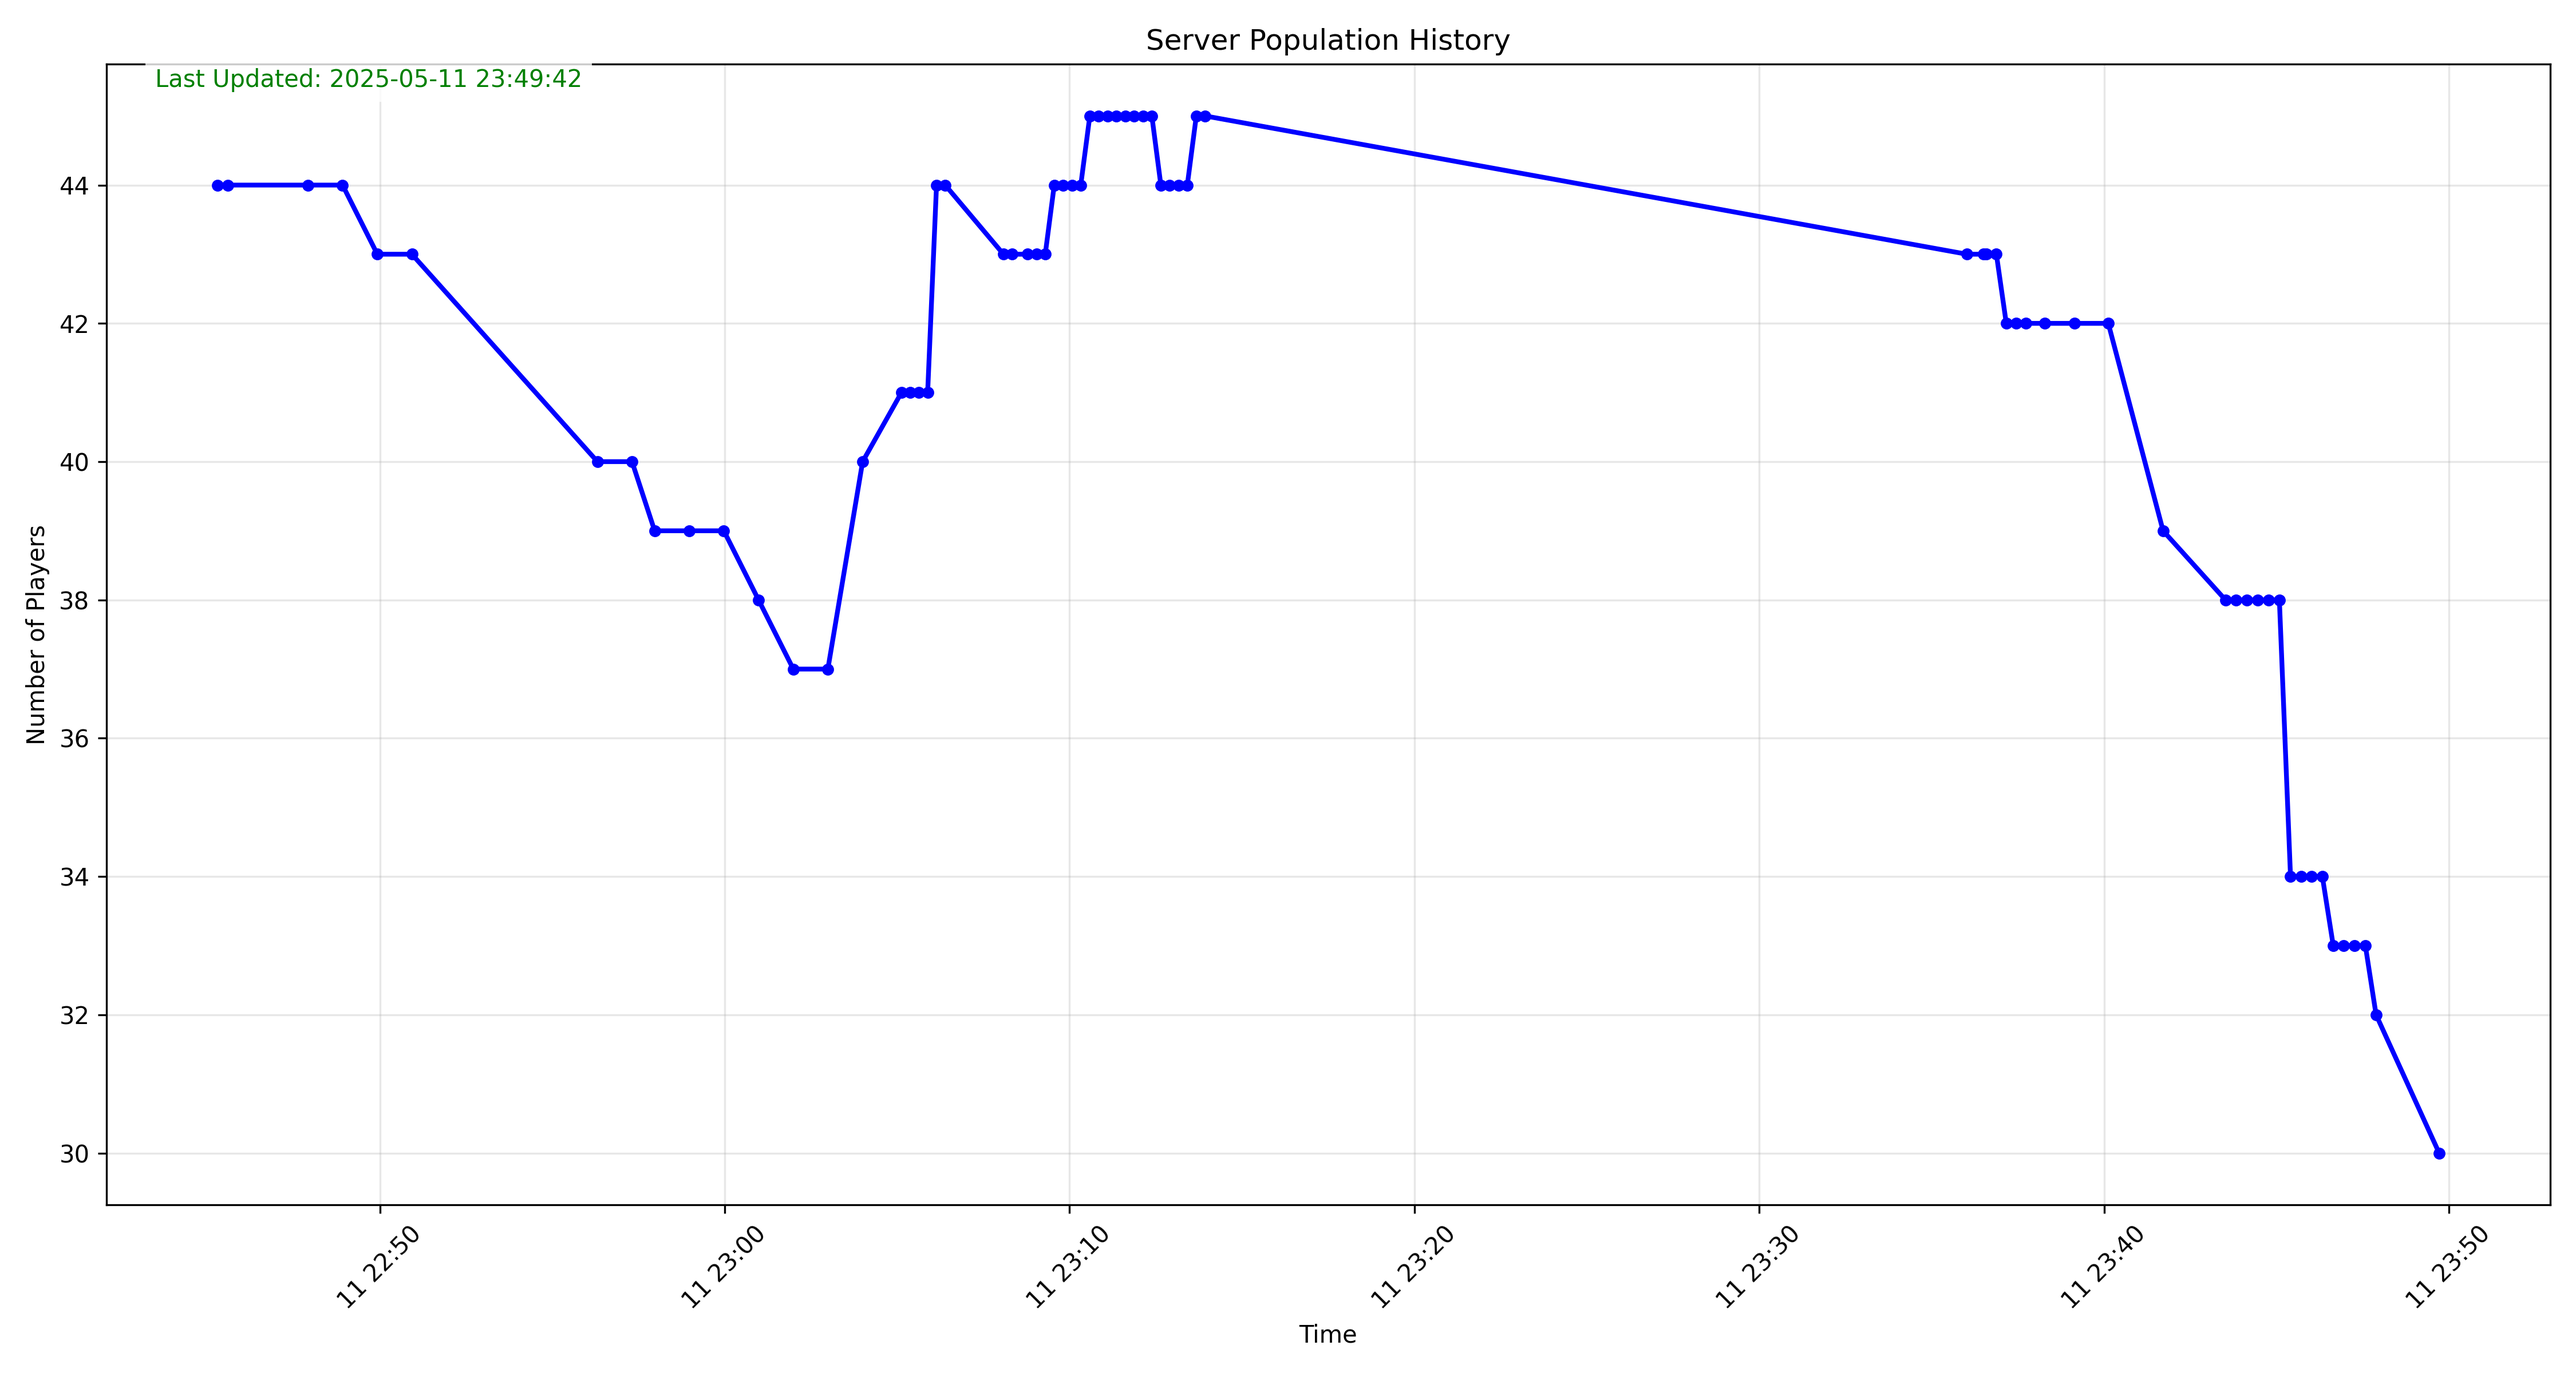
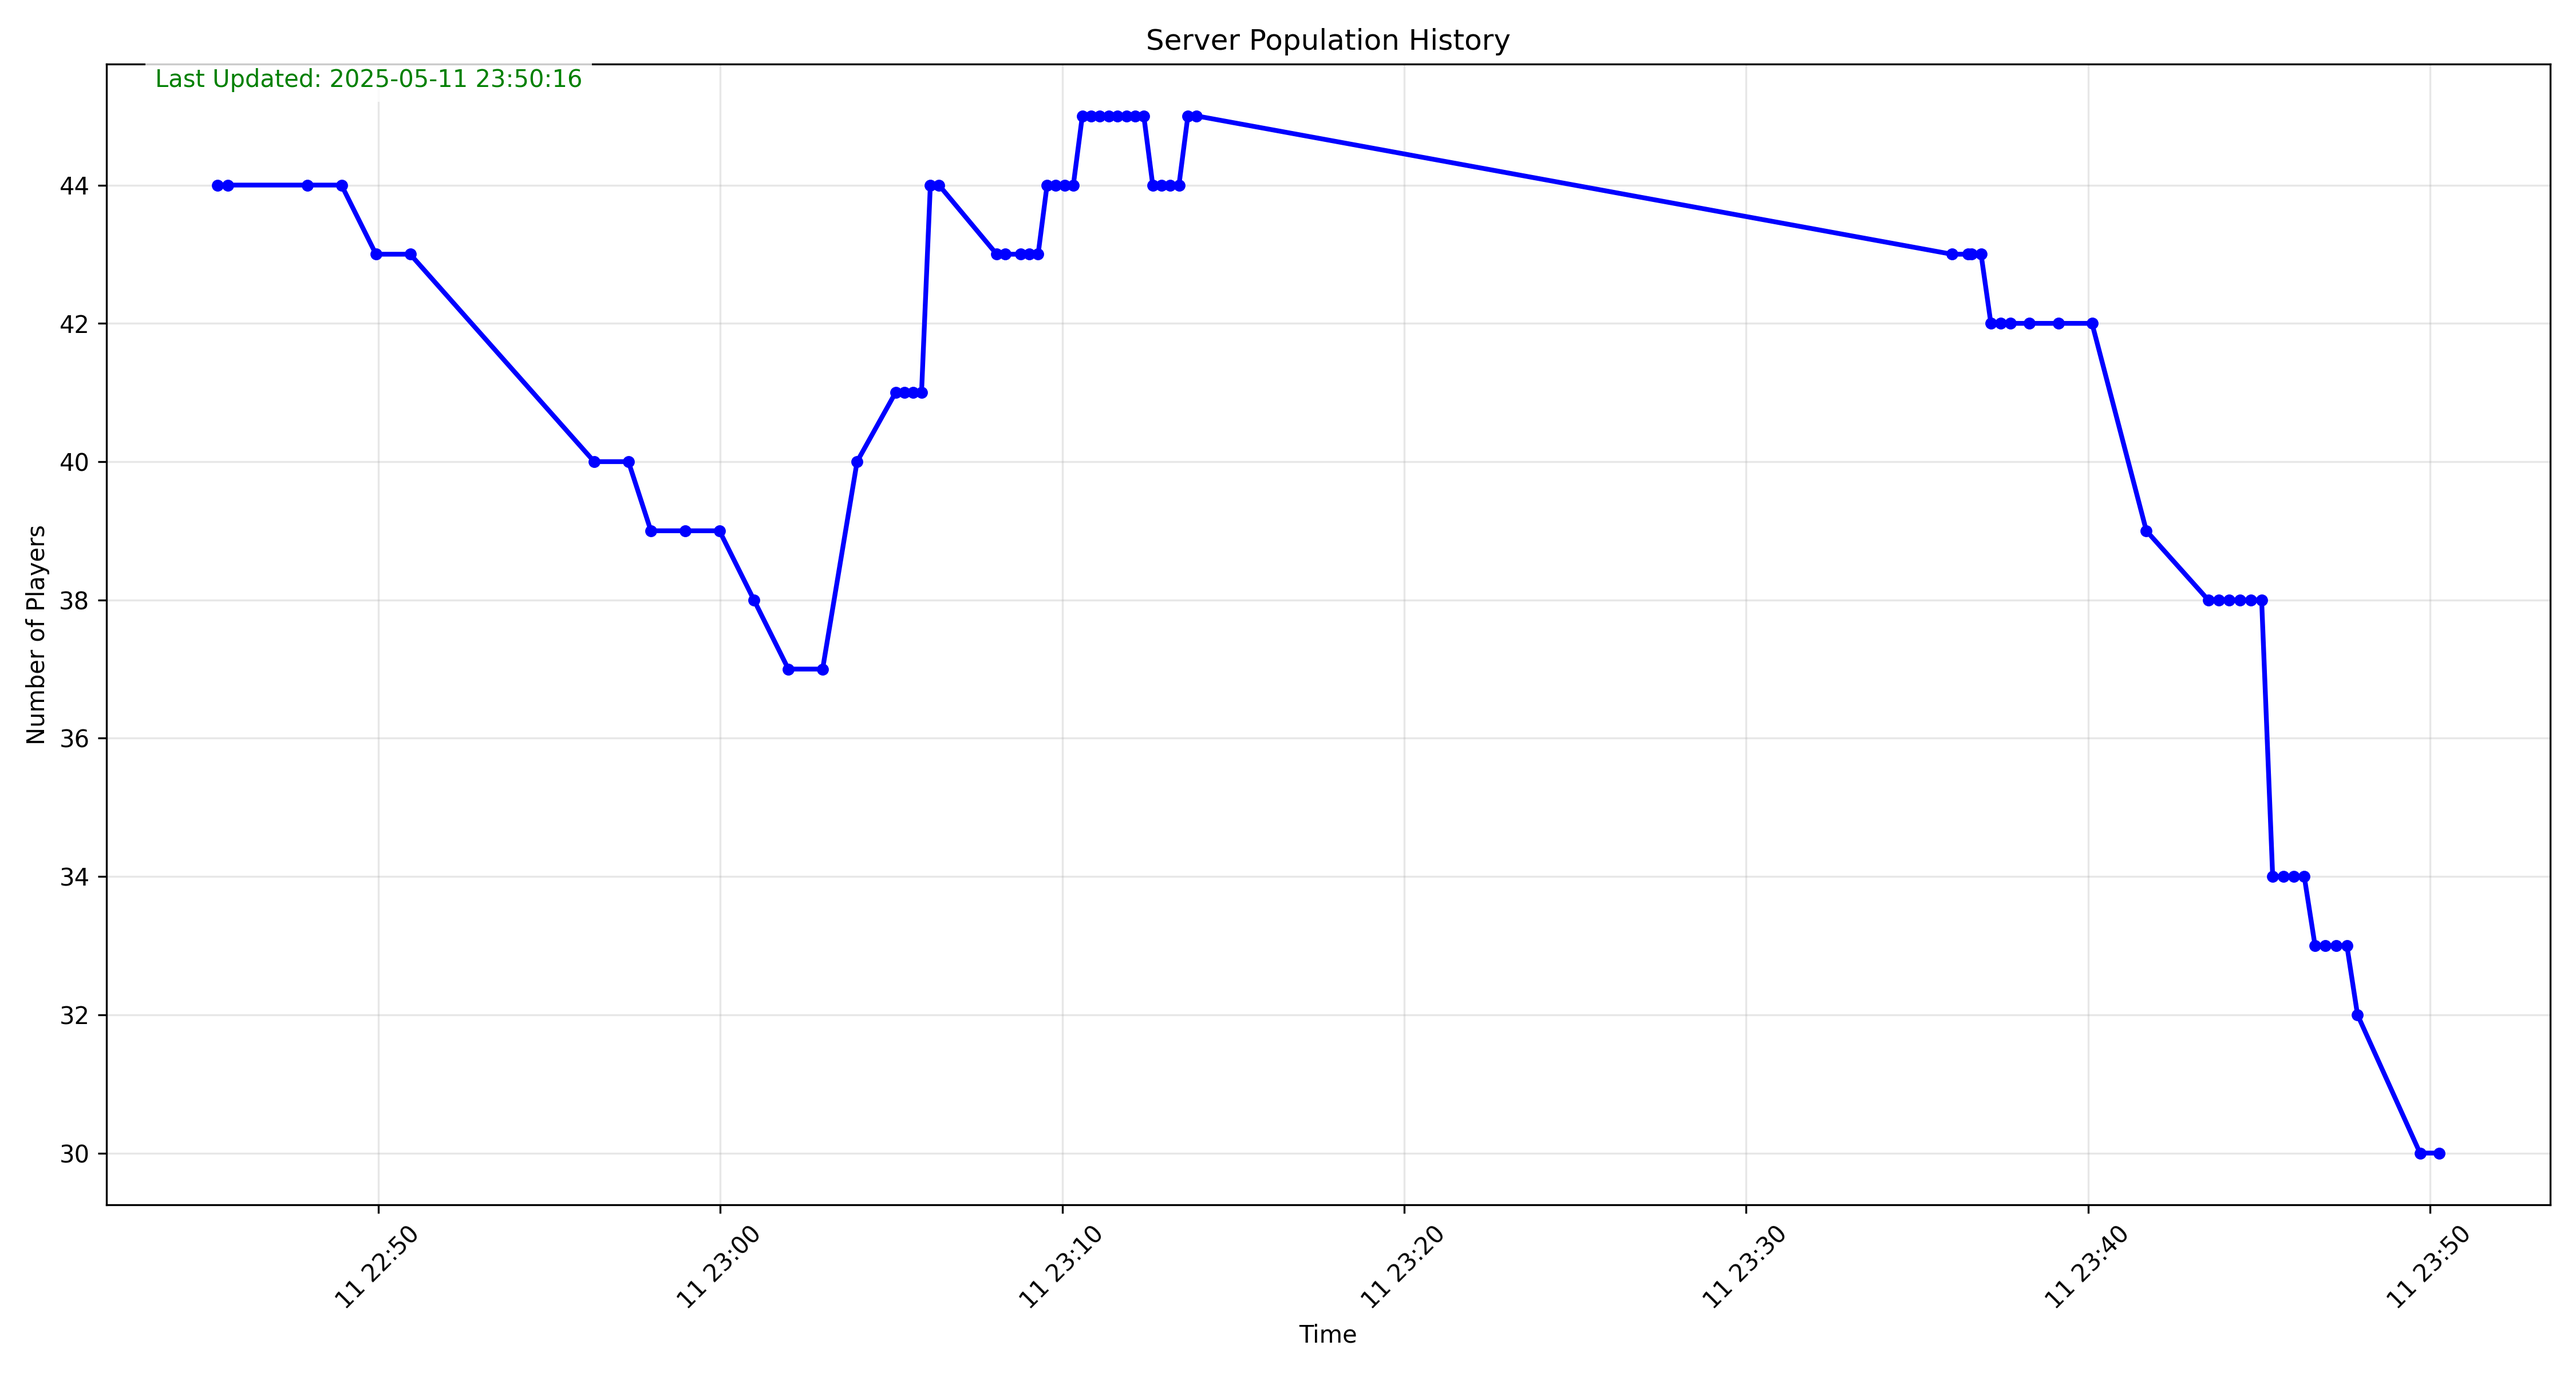
Update graph 2025-05-11 23:50:17

diff --git a/index.html b/index.html
@@ -9,7 +9,7 @@
             </style>
         </head>
         <body>
-            <div class="update-time">Last Updated: 2025-05-11 23:49:44</div>
+            <div class="update-time">Last Updated: 2025-05-11 23:50:17</div>
             <img src="server_population.png" alt="Server Population Graph">
         </body>
         </html>
